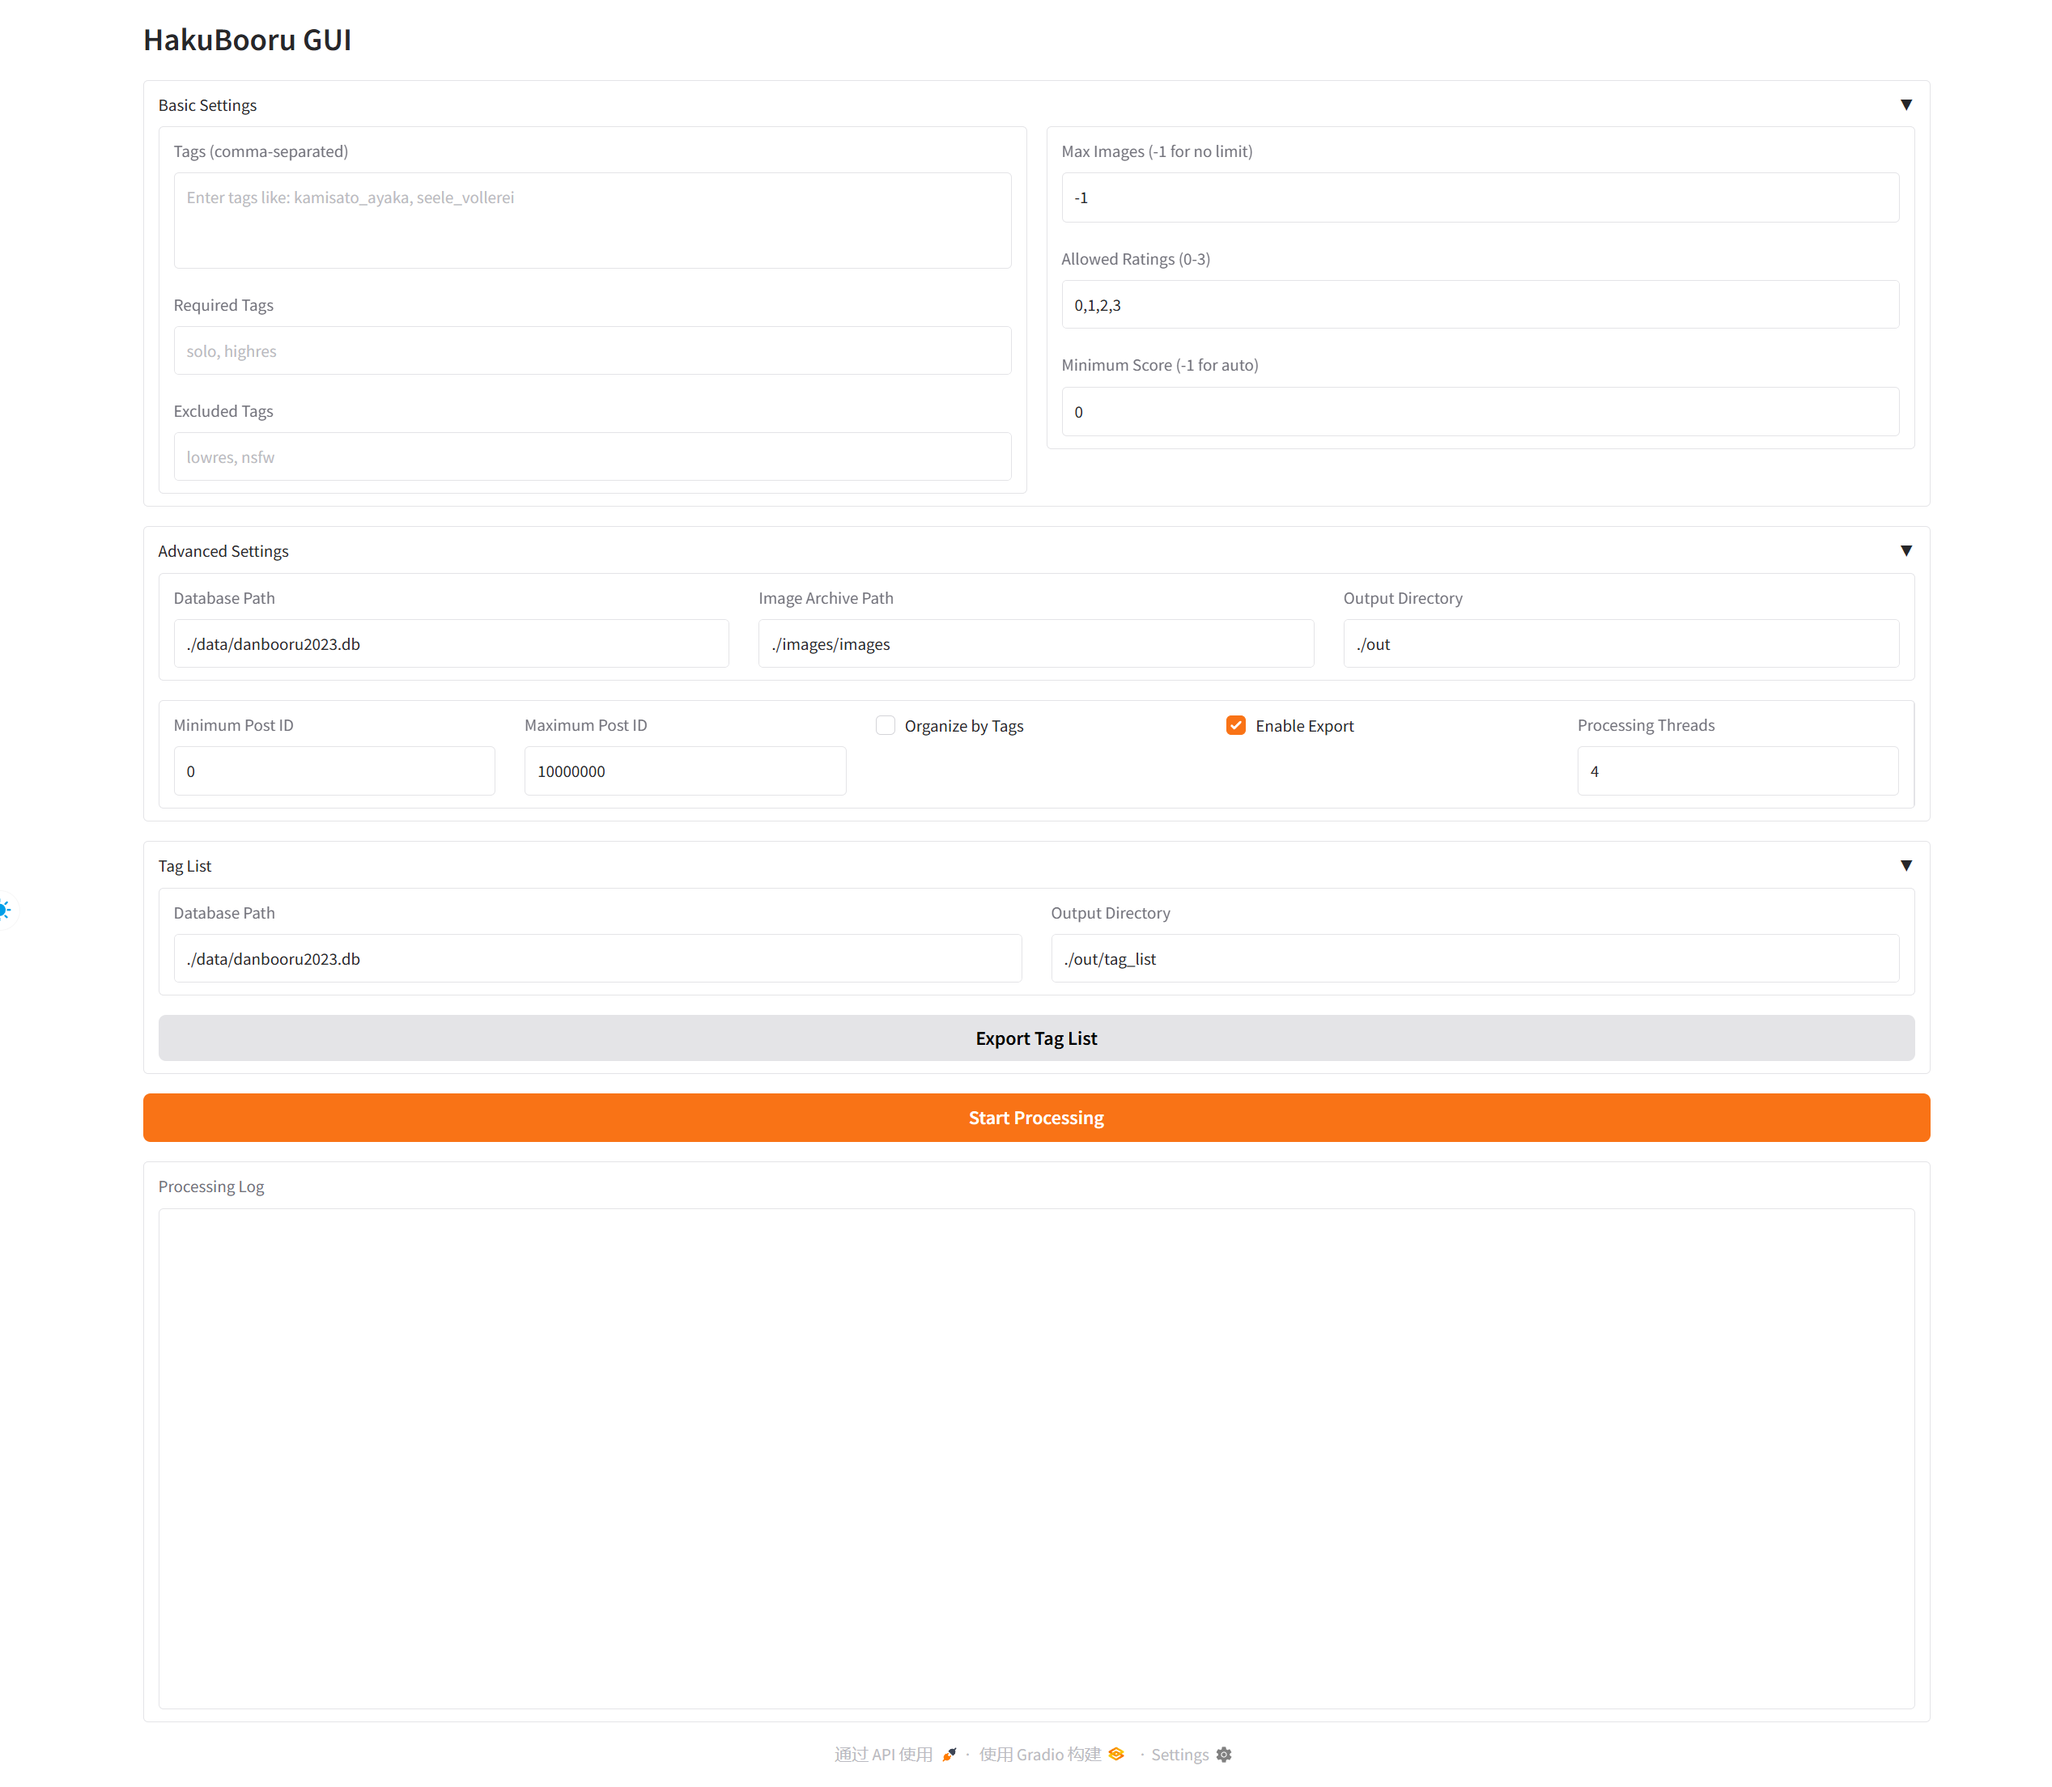
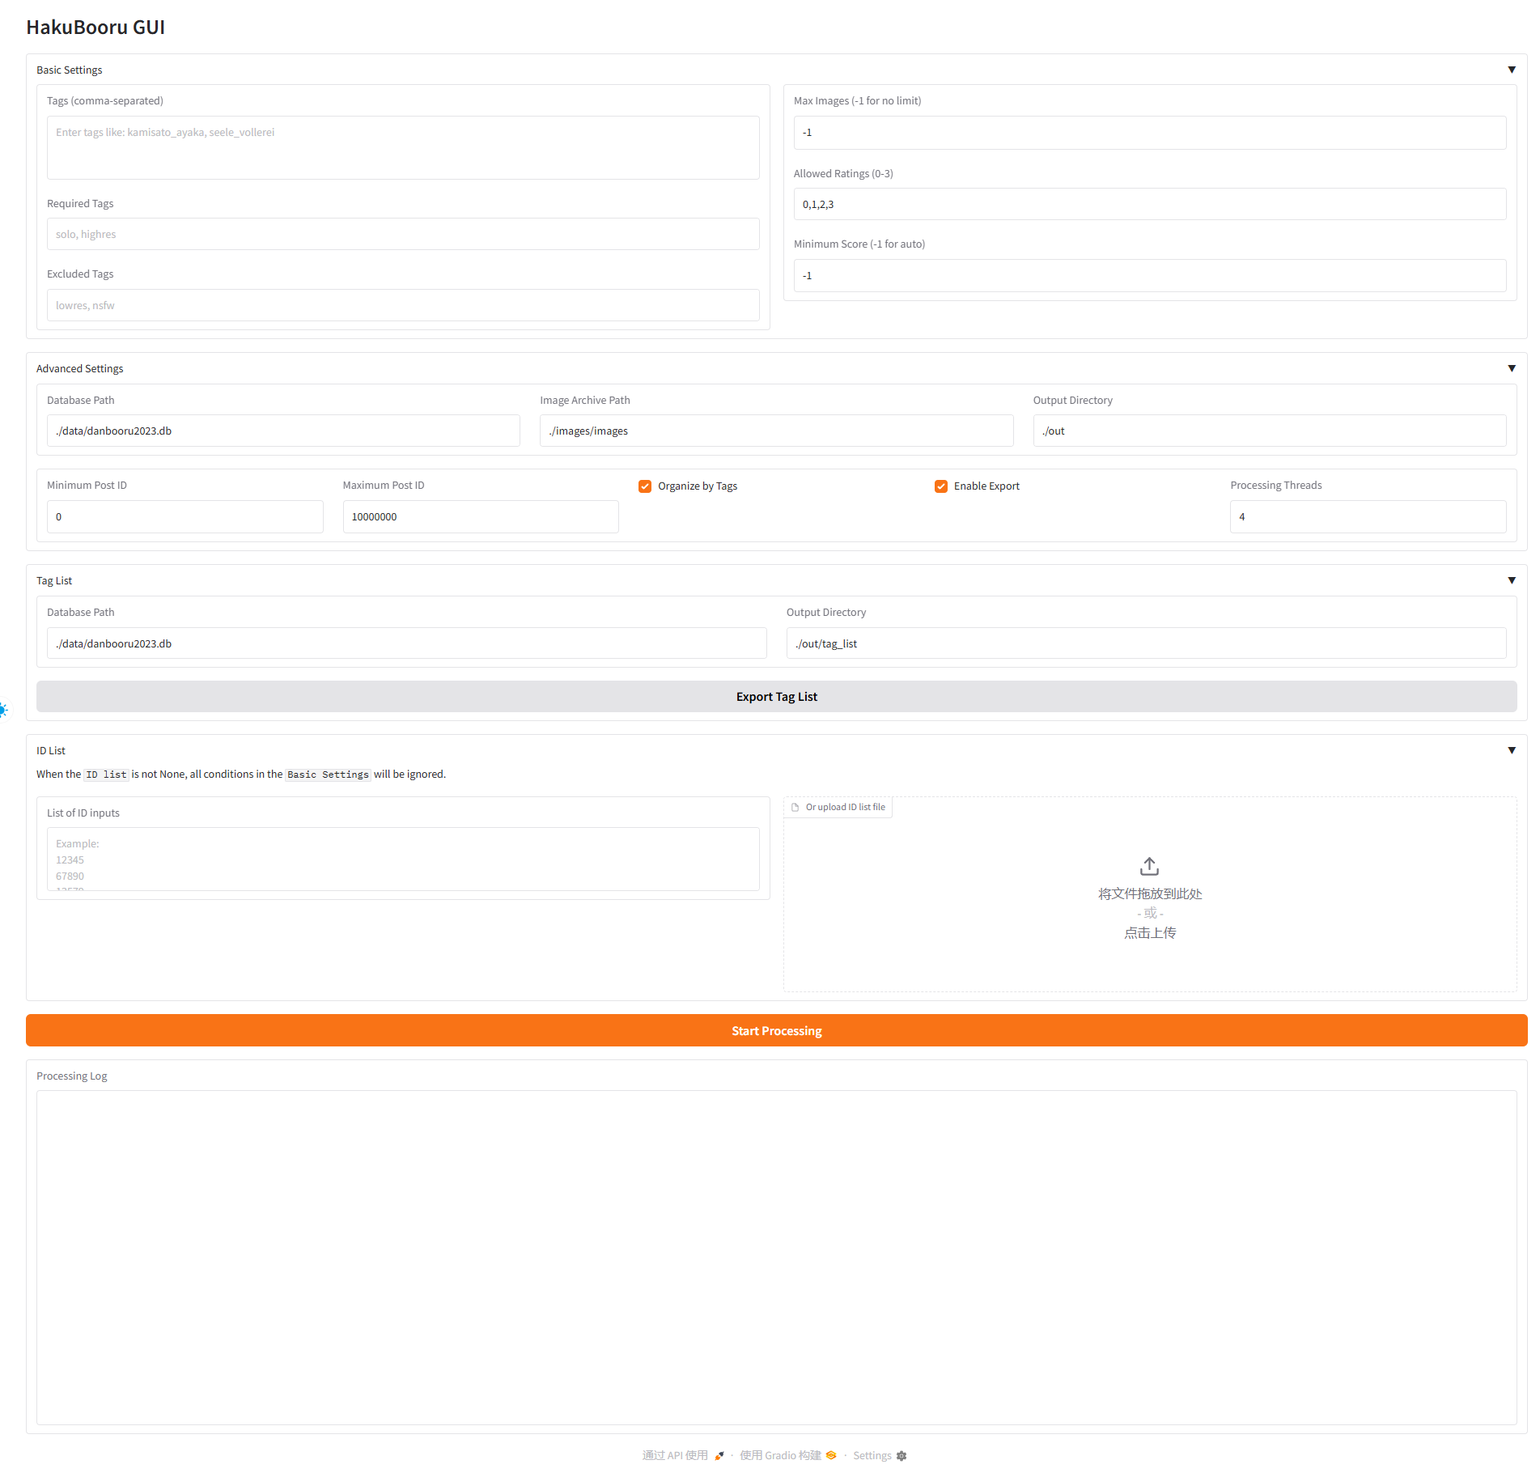
Add from ID list Export function

diff --git a/gui/gui.py b/gui/gui.py
@@ -19,6 +19,8 @@ def gradio_haku(
     add_character_category_path: bool,
     export_images: bool,
     process_threads: int,
+    id_input: str,
+    id_file: Optional[str],
 ) -> str:
     """Wrapper function for Gradio interface."""
     try:
@@ -45,6 +47,57 @@ def gradio_haku(
                 raise ValueError(f"Invalid rating value: {r}")
             rating_list.append(rating)
 
+        # Convert ID inputs
+        id_list = []
+        error_msgs = []
+
+        if id_input:
+            invalid_lines = []
+            for idx, line in enumerate(id_input.splitlines(), start=1):
+                stripped = line.strip()
+                if not stripped:
+                    continue
+
+                try:
+                    # Allow for other characters before and after but with significant digits,such as "ID: 123"
+                    number = int("".join(filter(str.isdigit, stripped)))
+                    id_list.append(number)
+                except ValueError:
+                    invalid_lines.append(f"The {idx} line: {stripped}")
+
+            if invalid_lines:
+                error_msgs.append(
+                    "The following line contains an invalid ID format:"
+                    + "\n".join(invalid_lines)
+                )
+
+        if id_file:
+            try:
+                with open(id_file, "r") as f:
+                    file_ids = []
+                    for line_num, line in enumerate(f, start=1):
+                        stripped = line.strip()
+                        if not stripped:
+                            continue
+                        try:
+                            file_ids.append(int(stripped))
+                        except ValueError:
+                            error_msgs.append(
+                                f"File's {line_num} line is invalid: {stripped}"
+                            )
+                    id_list.extend(file_ids)
+            except Exception as e:
+                error_msgs.append(f"File load failed: {str(e)}")
+
+        unique_ids = list(set(id_list))
+        if len(unique_ids) != len(id_list):
+            error_msgs.append(
+                f"Find duplicate ID, removed duplicates (remaining {len(unique_ids)})"
+            )
+
+        if error_msgs:
+            return "\n".join(error_msgs)
+
         return haku_character(
             names=names_list,
             required=required_list,
@@ -60,6 +113,8 @@ def gradio_haku(
             add_character_category_path=add_character_category_path,
             export_images=export_images,
             process_threads=process_threads,
+            id_list=unique_ids,
+            export_id_file=id_file,
         )
     except Exception as e:
         return f"Error occurred: {str(e)}"
@@ -98,7 +153,7 @@ with gr.Blocks(title="HakuBooru GUI") as blocks:
                     value=-1, label="Minimum Score (-1 for auto)", precision=0
                 )
 
-    with gr.Accordion("Advanced Settings", open=False):
+    with gr.Accordion("Advanced Settings", open=True):
         with gr.Row():
             db_path = gr.Textbox(value="./data/danbooru2023.db", label="Database Path")
             image_path = gr.Textbox(value="./images/images", label="Image Archive Path")
@@ -127,6 +182,20 @@ with gr.Blocks(title="HakuBooru GUI") as blocks:
             )
         gen_tags_btn = gr.Button("Export Tag List", variant="secondary")
 
+    with gr.Accordion("ID List", open=False):
+        gr.Markdown(
+            "When the `ID list` is not None, all conditions in the `Basic Settings` will be ignored."
+        )
+        with gr.Row():
+            id_input = gr.Textbox(
+                label="List of ID inputs",
+                placeholder="Example:\n12345\n67890\n13579",
+                lines=3,
+            )
+            id_file = gr.File(
+                label="Or upload ID list file", file_types=[".txt"], type="filepath"
+            )
+
     run_button = gr.Button("Start Processing", variant="primary")
     output_log = gr.Textbox(label="Processing Log", interactive=False, lines=20)
 
@@ -147,6 +216,8 @@ with gr.Blocks(title="HakuBooru GUI") as blocks:
             add_character_category_path,
             export_images,
             process_threads,
+            id_input,
+            id_file,
         ],
         outputs=output_log,
         concurrency_limit=1,  # Prevent concurrent executions

diff --git a/gui/haku_character.py b/gui/haku_character.py
@@ -35,6 +35,8 @@ def haku_character(
     add_character_category_path: bool,
     export_images: bool,
     process_threads: int,
+    export_id_file: Optional[str] = None,
+    id_list: Optional[List[int]] = None,
 ) -> str:
     """Main processing function for filtering and exporting posts."""
     log_stream = StringIO()
@@ -48,6 +50,30 @@ def haku_character(
         # Initialize database
         logger.info(f"Loading {db_path}")
         load_db(db_path)
+
+        # Add ID list Export
+        if id_list or export_id_file:
+            logger.info("Enter ID export mode")
+
+            all_ids = []
+            if id_list:
+                all_ids.extend(id_list)
+            if export_id_file:
+                try:
+                    with open(export_id_file, "r") as f:
+                        all_ids.extend(int(line.strip()) for line in f if line.strip())
+                except Exception as e:
+                    logger.error(f"File load failed: {str(e)}")
+
+            unique_ids = list(set(all_ids))
+            posts = query_posts_by_ids(unique_ids)
+
+            if export_images and posts:
+                _export_posts(
+                    posts=posts, output_path=output_path, image_path=image_path
+                )
+
+            return log_stream.getvalue()
 
         # Process tags
         required_tags = _get_valid_tags(required)
@@ -178,6 +204,19 @@ def _filter_posts(
     if max_posts > 0 and len(filtered) > max_posts:
         return random.sample(filtered, max_posts)
     return filtered
+
+
+def query_posts_by_ids(post_ids: List[int]) -> List[Post]:
+    """Query posts based on ID list."""
+    valid_ids = [pid for pid in post_ids if isinstance(pid, int) and pid > 0]
+    if not valid_ids:
+        return []
+
+    try:
+        return list(Post.select().where(Post.id << valid_ids))
+    except Exception as e:
+        logger.error(f"Processing failed: {str(e)}")
+        return []
 
 
 def _export_posts(
